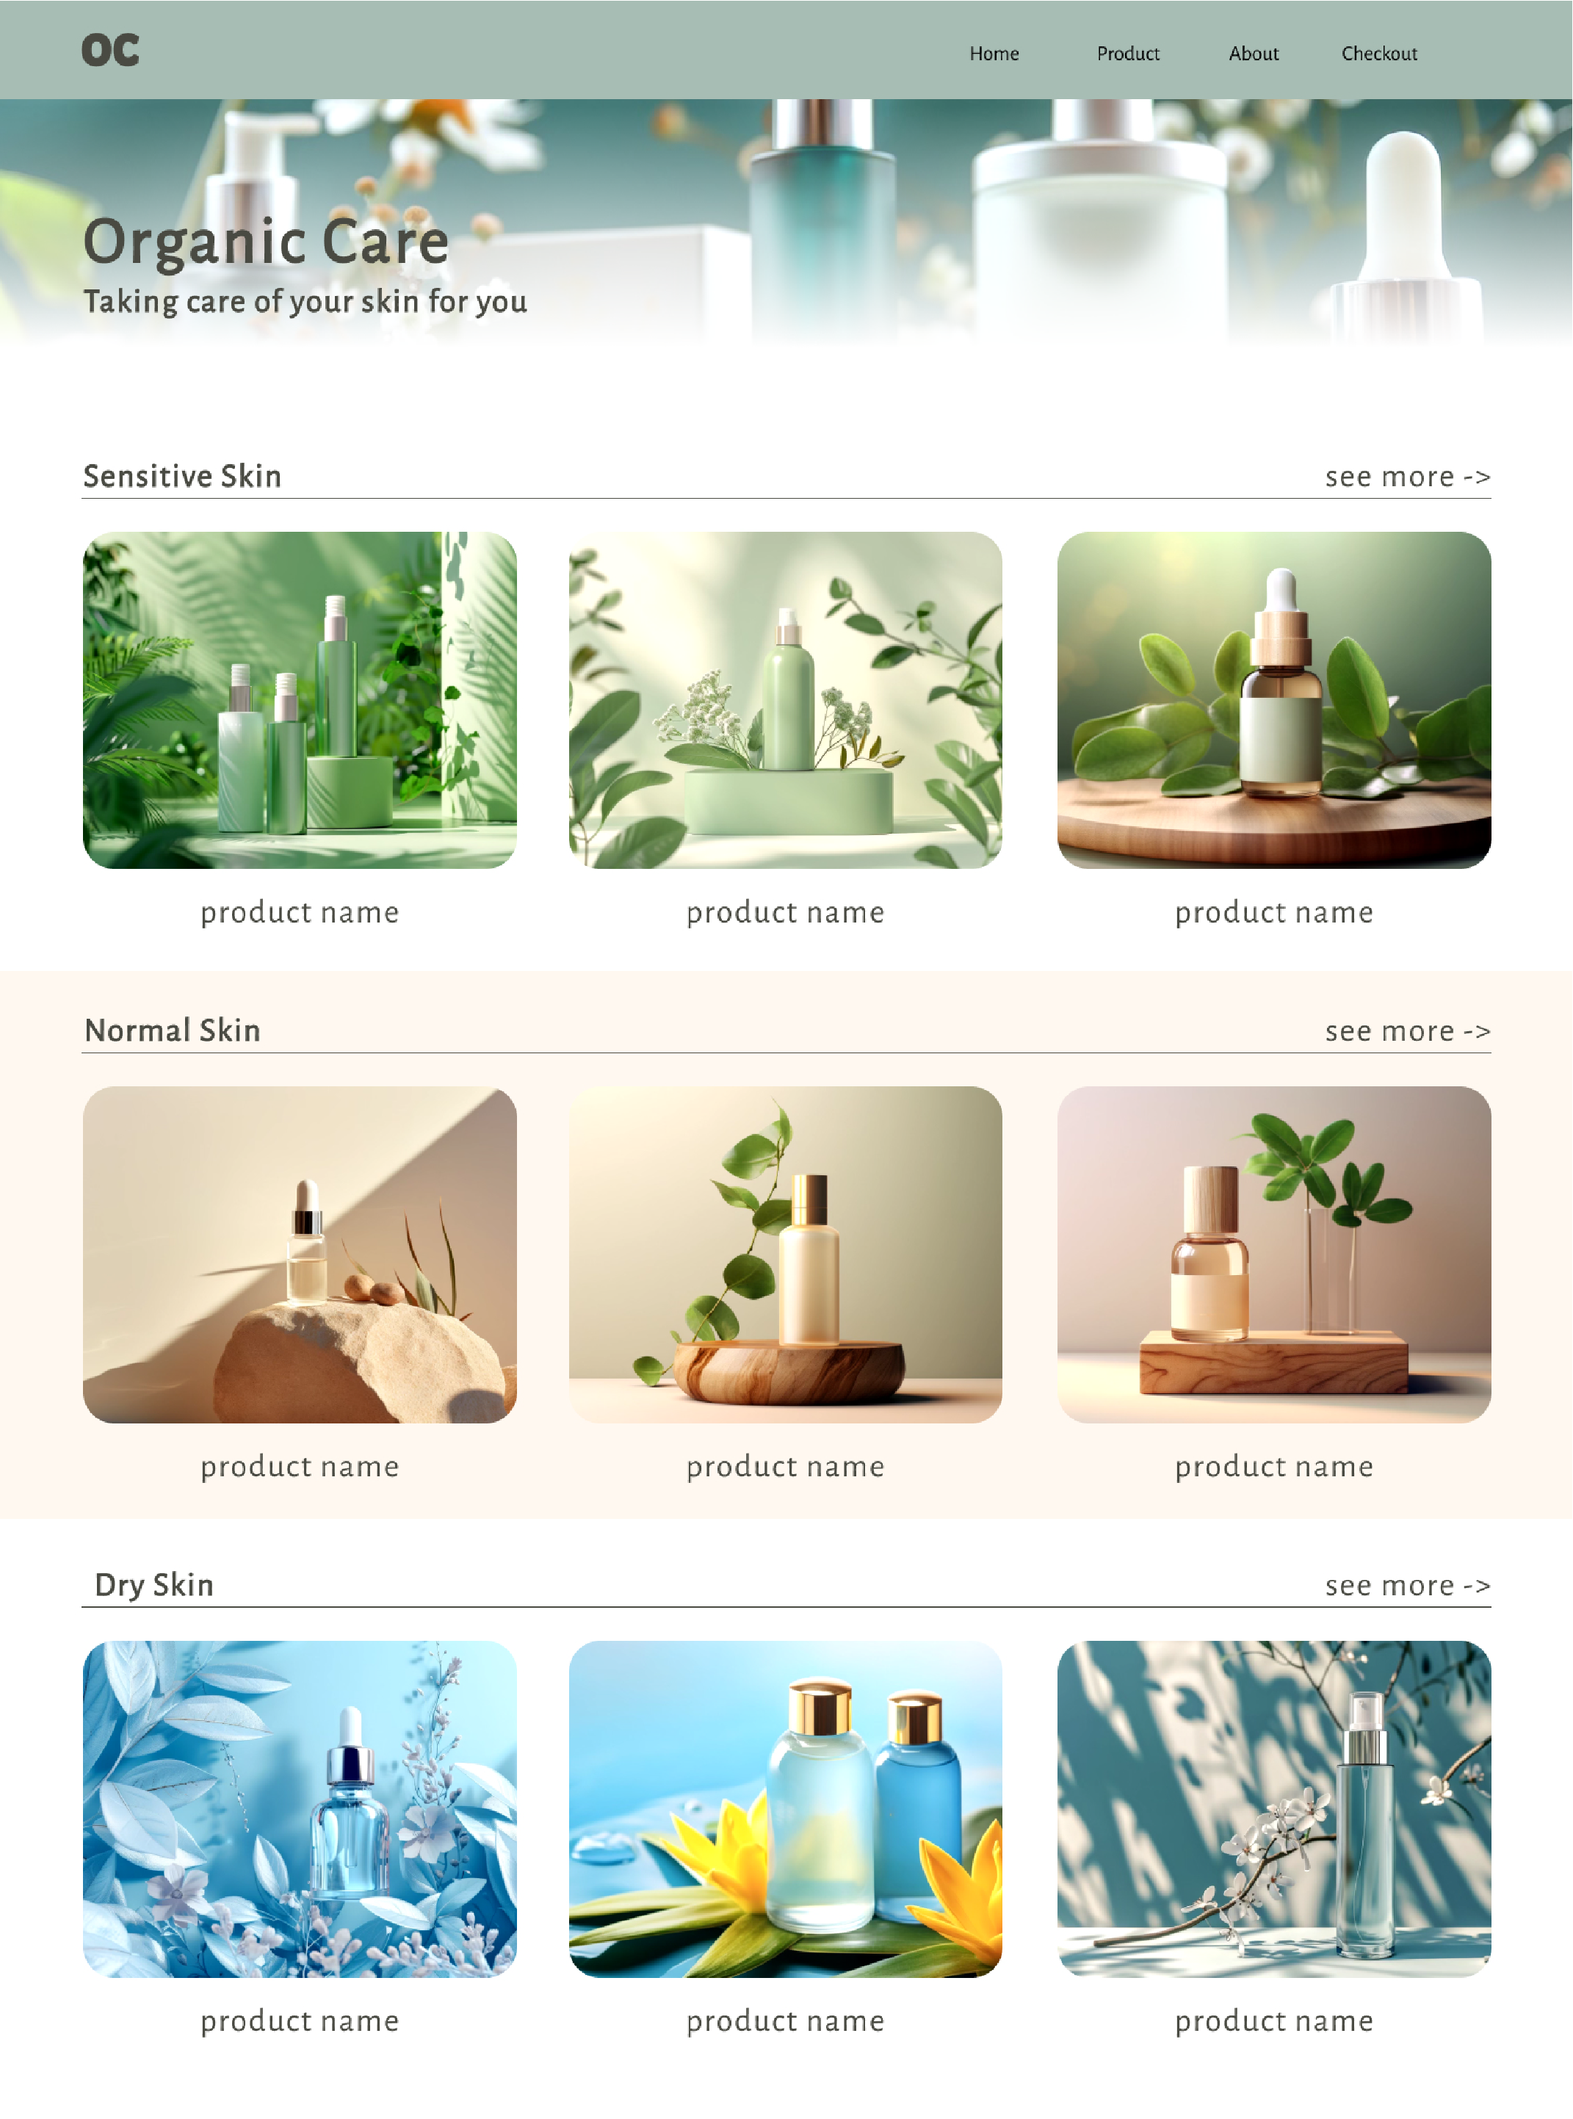
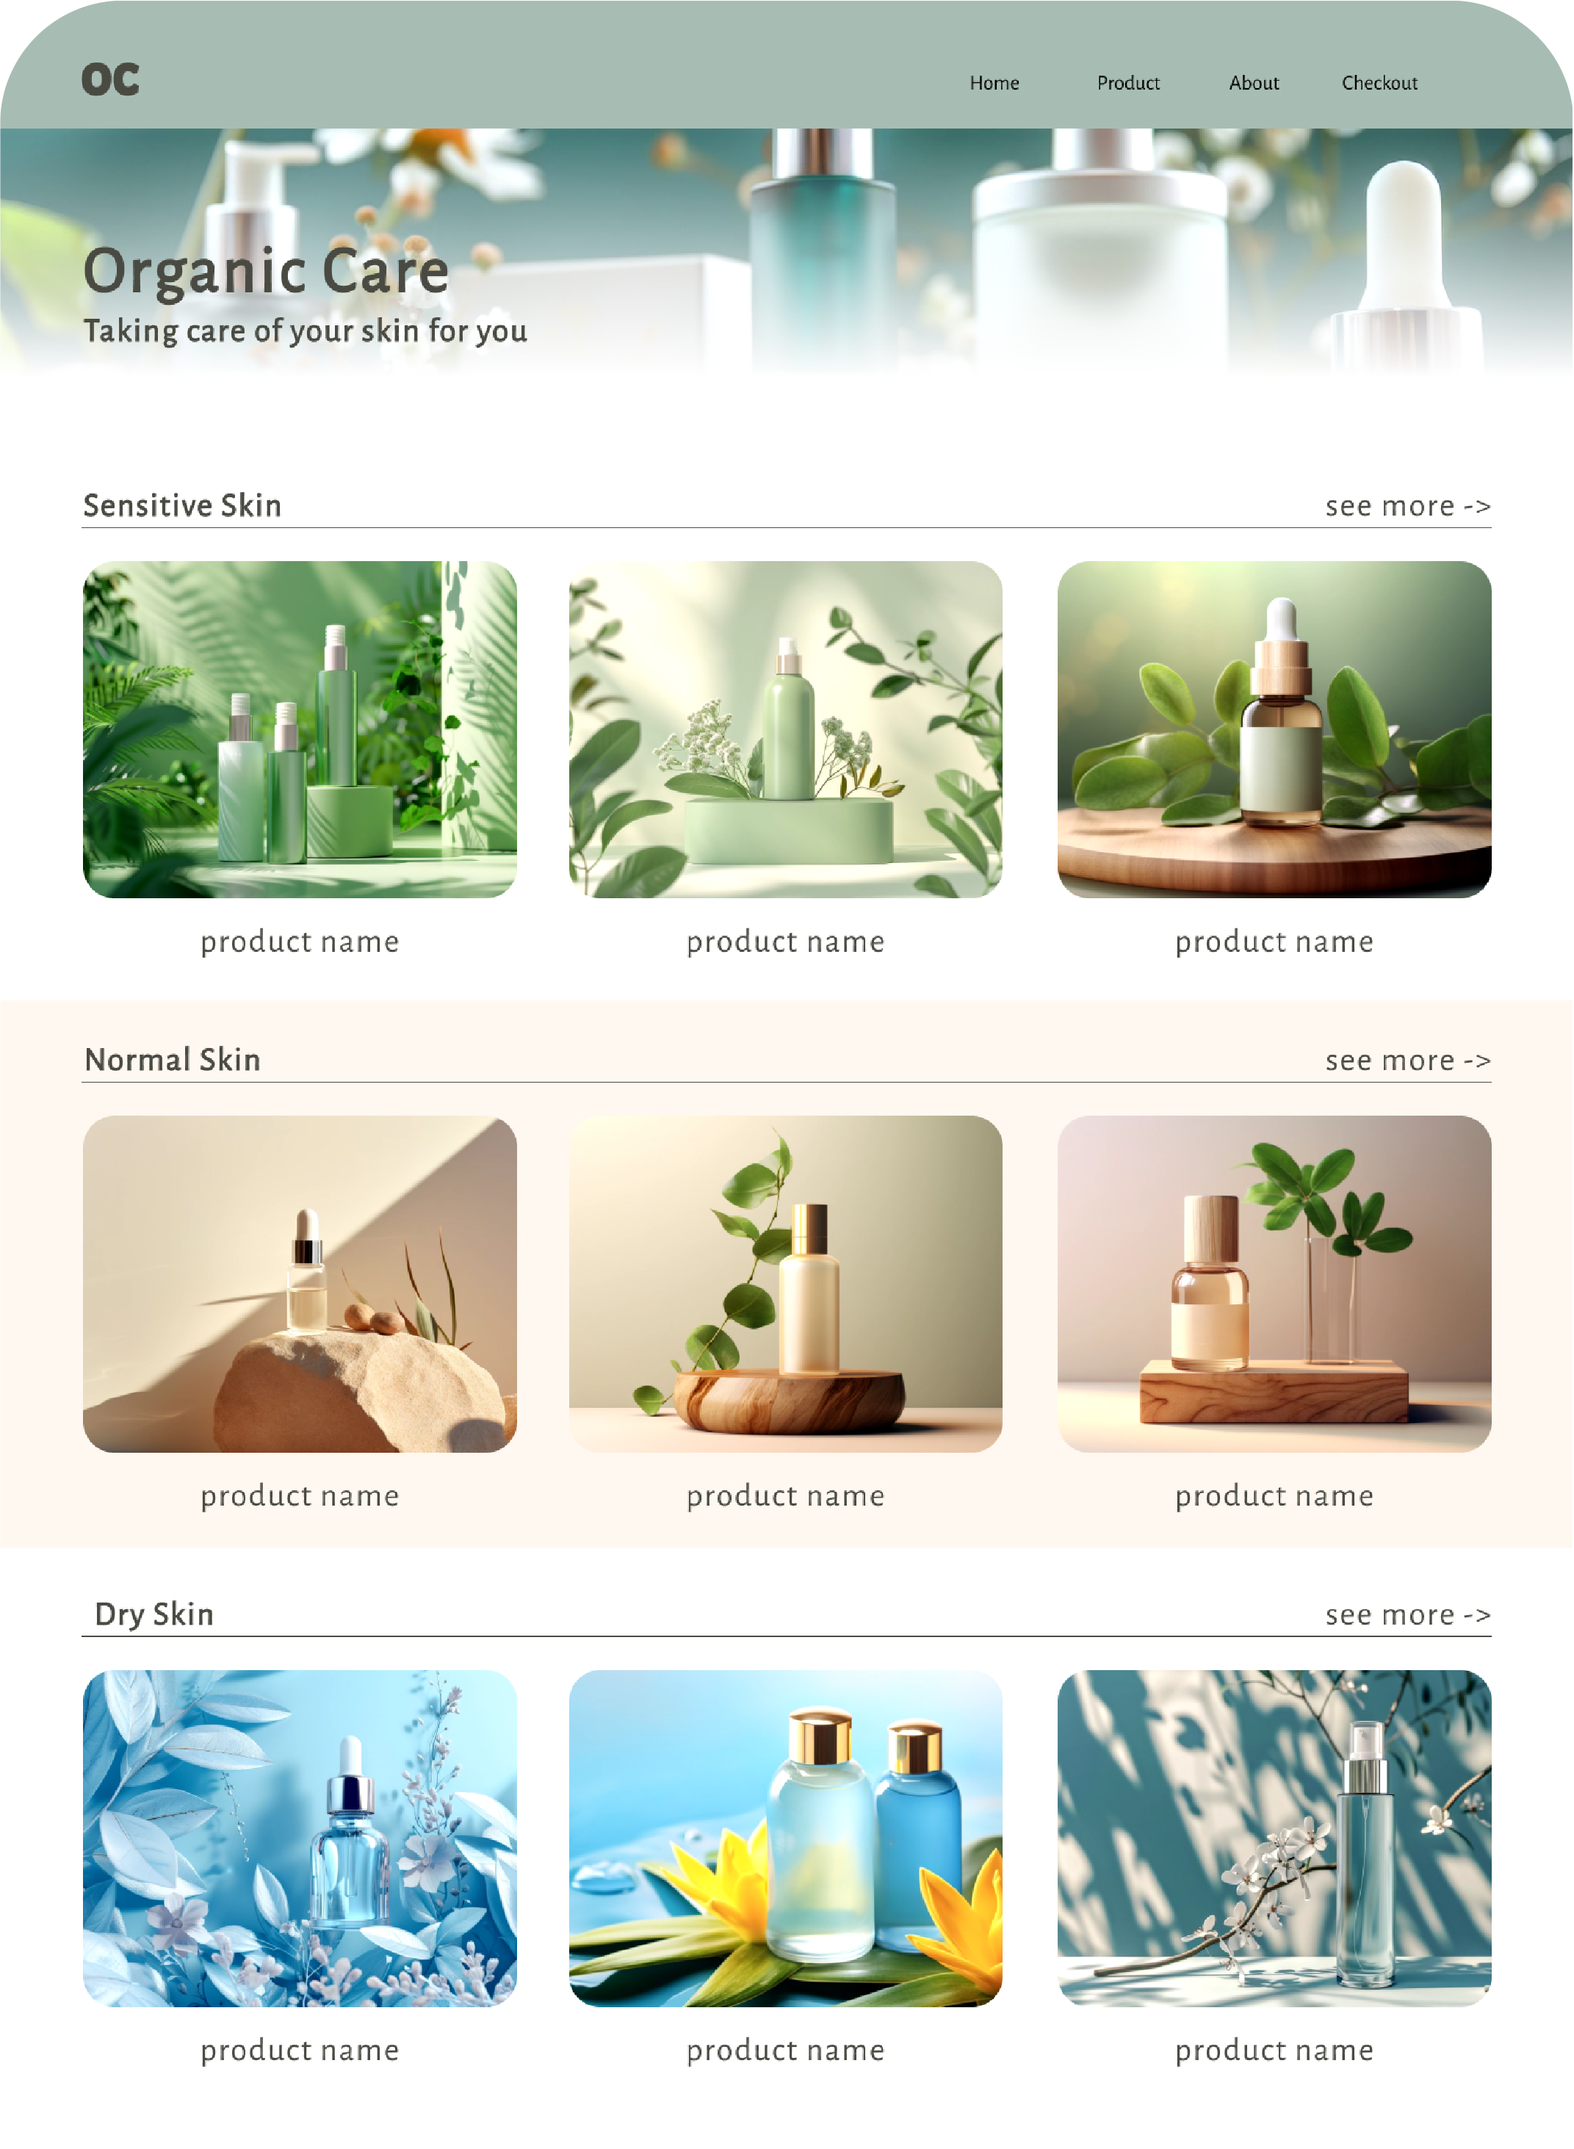
about content update

diff --git a/about.html b/about.html
@@ -57,8 +57,9 @@
     <section class="intro">
         <div class="about-content">
             <h3 class="limelight-regular">about me</h3>
-            <p>As a empathetic and creative individual committed to Human-Centered design, I excel in observing user
-                needs and crafting designs that resonate with the human mind.</p>
+            <p>Front-End Developer and UI/UX Designer with a background in industrial design and web content management.
+                Skilled in HTML, CSS, JavaScript, React, and UI design, with experience in website management and
+                product development. Passionate about creating user-friendly digital experiences.</p>
         </div>
         <div class="profile-picture"><img src="./image/profile-picture.jpg" alt=""></div>
     </section>
@@ -105,49 +106,50 @@
         <h1 class="limelight-regular">Educaiton</h1>
         <div class="background-holder" data-aos="fade-left" data-aos-duration="1000">
             <div class="time-line">
-                <p>2024 - currently studying</p>
-                <p class="vertical-line"></p>
+                <p>Expected 2025</p>
+                <!--<p class="vertical-line"></p>-->
             </div>
             <div class="bg-content" data-aos="fade-left" data-aos-duration="1000">
                 <p>2024 - currently studying</p>
-                <h3>Web Development-Front end design</h3>
-                <h5>George Brown College</h5>
+                <h3>George Brown College</h3>
+                <h5>Postgraduate Certificate in Web Development-Front end design</h5>
+                <h5>Focus Areas: Interface Design, UI Design, Front-End Development, Project Management</h5>
             </div>
             <div class="time-line" data-aos="fade-left" data-aos-duration="1000">
                 <p>2018 - 2022</p>
-                <p class="vertical-line"></p>
+                <!--<p class="vertical-line"></p>-->
             </div>
             <div class="bg-content" data-aos="fade-left" data-aos-duration="1000">
                 <p>2018 - 2022</p>
-                <h3>B.A. in Industrial and Commercial Design</h3>
-                <h5>Asia Eastern University of Science and Technolog</h5>
+                <h3>Asia Eastern University of Science and Technolog</h3>
+                <h5>B.A. in Industrial and Commercial Design</h5>
+                <h5>Focus Areas: Product Design, 3D Modeling, UI/UX Design, Mechanical Drafting</h5>
             </div>
         </div>
         <h1 class="limelight-regular">Work Experence</h1>
         <div class="background-holder">
             <div class="time-line" data-aos="fade-left" data-aos-duration="1000">
                 <p>2022 - 2023</p>
-                <p class="vertical-line"></p>
+                <!--<p class="vertical-line"></p>-->
             </div>
             <div class="bg-content" data-aos="fade-left" data-aos-duration="1000">
                 <p>2022 - 2023</p>
                 <h3>Industrial Design EngineeringIndustrial Design Engineering</h3>
                 <h5>Create Electronic Optical Co., Ltd, NEW TAIPEI, TAIWAN</h5>
                 <ul>
-                    <li>Spearheaded the motorcycle dash-cam products project through to the engineering verification
-                        test phase.</li>
-                    <li>Represented the company in the IF Award 2023, and advanced to the finals in the preliminary
-                        rounds.</li>
-                    <li>Executed Ul design for dash-cams, collaborating closely with software engineers to develop a
-                        functional prototype.</li>
-                    <li>Held the role of the official website editor, overseeing the front-end management.</li>
+                    <li>Conducted market research to identify trends, leading to the initiation of a motorcycle dash-cam
+                        project.</li>
+                    <li>Designed UI and icons for product models, improving user experience and branding.</li>
+                    <li>Developed a product concept selected as the company’s sole entry for the iF Design Award,
+                        advancing to the Berlin finals.</li>
+                    <li>Edited and updated website content, ensuring accurate and engaging user experiences.</li>
                 </ul>
             </div>
         </div>
         <div class="background-holder">
             <div class="time-line" data-aos="fade-left" data-aos-duration="1000">
                 <p>JUL-AUG 2023</p>
-                <p class="vertical-line"></p>
+                <!--<p class="vertical-line"></p>-->
             </div>
             <div class="bg-content" data-aos="fade-left" data-aos-duration="1000">
                 <p>JUL-AUG 2023</p>
@@ -156,12 +158,48 @@
                 <ul>
                     <li>Assistant of Taiwan Railway Administration (TRA) Train
                         Dispatching Radio Syst.</li>
-                    <li>Lorem ipsum dolor sit amet consectetur adipisicing elit.</li>
-                    <li>Lorem ipsum dolor sit amet consectetur adipisicing elit.</li>
                 </ul>
             </div>
         </div>
-
+        <h1 class="limelight-regular">Activitis & Leadership</h1>
+        <div class="background-holder">
+            <div class="time-line" data-aos="fade-left" data-aos-duration="1000">
+                <p>JUL 2021 - May 2022</p>
+                <!--<p class="vertical-line"></p>-->
+            </div>
+            <div class="bg-content" data-aos="fade-left" data-aos-duration="1000">
+                <p>JUL 2021 - May 2022</p>
+                <h3>Public Relations Director, 2022 Design Exhibition Committee</h3>
+                <h5>Asia Eastern University of Science and Technology, Taiwan</h5>
+                <ul>
+                    <li>Secured six sponsorship deals by negotiating with industry partners, ensuring financial and
+                        resource support for the event.</li>
+                    <li>Coordinated cross-functional communication between sponsors, faculty, and the exhibition team,
+                        streamlining event logistics.</li>
+                    <li>Organized and led team meetings, assisting team leaders in task allocation to enhance
+                        productivity and collaboration.</li>
+                </ul>
+            </div>
+        </div>
+        <div class="background-holder">
+            <div class="time-line" data-aos="fade-left" data-aos-duration="1000">
+                <p>JUL 2019</p>
+                <!--<p class="vertical-line"></p>-->
+            </div>
+            <div class="bg-content" data-aos="fade-left" data-aos-duration="1000">
+                <p>JUL 2021 - May 2022</p>
+                <h3>Volunteer Arts Lecturer</h3>
+                <h5>Shang-Hu Elementary School, Taoyuan, Taiwan</h5>
+                <ul>
+                    <li>Developed engaging art lessons that encouraged creative thinking in children, fostering their
+                        artistic expression.</li>
+                    <li>Taught color theory and blending techniques, improving students' understanding of visual
+                        aesthetics.</li>
+                    <li> Led sustainability workshops, guiding students in crafting eco-friendly toys using recycled
+                        materials.</li>
+                </ul>
+            </div>
+        </div>
     </section>
     <script>
         AOS.init();

diff --git a/project.html b/project.html
@@ -72,26 +72,7 @@
                         style="font-size:24px"></i></a>
             </div>
         </div>
-        
         <div class="col-container-2">
-            <div class="content-block" data-aos="fade-right" data-aos-duration="1000">
-                <h3>Charlotte Bakery</h3>
-                <p>Practice - Responsive Web Design
-                <p>
-                <p>2023</p>
-                <div class="empty-block"></div>
-                <a href=""><i class="fa fa-folder-open" style="font-size:24px"></i></a>
-                <a href="https://github.com/hunlin99/charlotte_bakery"><i class="fa fa-github"
-                        style="font-size:24px"></i></a>
-                <a href="https://hunlin99.github.io/charlotte_bakery/charlotte_bakery/"><i class="fa fa-link"
-                        style="font-size:24px"></i></a>
-            </div>
-            <div class="img-block" data-aos="fade-left" data-aos-duration="1000"><img src="./image/charlotte_bakery.jpg"
-                    alt=""></div>
-        </div>
-        <div class="col-container-1">
-            <div class="img-block" data-aos="fade-right" data-aos-duration="1000"><img src="./image/organic-care1.jpg"
-                    alt=""></div>
             <div class="content-block" data-aos="fade-left" data-aos-duration="1000">
                 <h3 class="limelight-regular">Organic Care</h3>
                 <p>Practice - Responsive Web Design</p>
@@ -103,7 +84,26 @@
                 <a href="https://hunlin99.github.io/15081-assignment1/"><i class="fa fa-link"
                         style="font-size:24px"></i></a>
             </div>
+            <div class="img-block" data-aos="fade-right" data-aos-duration="1000"><img src="./image/organic-care1.jpg"
+                alt=""></div>
         </div>
+        <div class="col-container-1">
+            <div class="img-block" data-aos="fade-left" data-aos-duration="1000"><img src="./image/charlotte_bakery.jpg"
+                alt=""></div>
+            <div class="content-block" data-aos="fade-right" data-aos-duration="1000">
+                <h3>Charlotte Bakery</h3>
+                <p>Practice - Responsive Web Design
+                <p>
+                <p>2023</p>
+                <div class="empty-block"></div>
+                <a href="https://www.behance.net/gallery/187550535/Charlotte-Bakery-Responsive-Web-Design"><i class="fa fa-behance" style="font-size:24px"></i></a>
+                <a href="https://github.com/hunlin99/charlotte_bakery"><i class="fa fa-github"
+                        style="font-size:24px"></i></a>
+                <a href="https://hunlin99.github.io/charlotte_bakery/charlotte_bakery/"><i class="fa fa-link"
+                        style="font-size:24px"></i></a>
+            </div>
+        </div>
+        
     </section>
     <section class="UID">
         <h1 class="limelight-regular">UI Design</h1>
@@ -130,7 +130,7 @@
                 <p>Dash Cam UI Design</p>
                 <p>2024</p>
                 <div class="empty-block"></div>
-                <a href=""><i class="fa fa-behance" style="font-size:24px"></i></a>
+                <a href="https://www.behance.net/gallery/187560811/Icon-design-of-dash-cam"><i class="fa fa-behance" style="font-size:24px"></i></a>
             </div>
         </div>
     </section>

diff --git a/cuisines-around-us/cuisines-around-us.html b/cuisines-around-us/cuisines-around-us.html
@@ -3,7 +3,7 @@
 <meta charset="UTF-8">
 <meta name="viewport" content="width=device-width, initial-scale=1.0">
 <!--CSS file-->
-<link rel="stylesheet" href="./organic-care.css">
+<link rel="stylesheet" href="../style.css">
 <link rel="stylesheet" href="../cuisines-around-us/cuisines-around-us.css">
 <!--Google icon-->
 <link rel="stylesheet" href="https://fonts.googleapis.com/icon?family=Material+Icons">
@@ -20,7 +20,7 @@
 
 <body class="body">
     <header class="back-btn">
-        <a href="/project.html" class="limelight-regular"><i class="fa fa-chevron-left" style="font-size:28px"></i>Back
+        <a href="../project.html" class="limelight-regular"><i class="fa fa-chevron-left" style="font-size:28px"></i>Back
             to Projects</a>
     </header>
     <div class="back-color"></div>
@@ -33,8 +33,8 @@
                 </div>
                 <img src="./mockup.png" alt="">
             </div>
-            <img class="screenshot-1" src="./hi-fi-1.jpg" alt="" data-aos="fade-down" data-aos-duration="3000">
-            <img class="screenshot-2" src="./hi-fi-2.jpg" alt="" data-aos="fade-up" data-aos-duration="3000">
+            <img class="screenshot-1" src="./hi-fi-1.png" alt="" data-aos="fade-down" data-aos-duration="3000">
+            <img class="screenshot-2" src="./hi-fi-2.png" alt="" data-aos="fade-up" data-aos-duration="3000">
         </div>
     </section>
     <section class="description">

diff --git a/health-pocked/health-pocked.html b/health-pocked/health-pocked.html
@@ -23,7 +23,7 @@
 
 <body class="body">
     <header class="back-btn">
-        <a href="/project.html" class="limelight-regular"><i class="fa fa-chevron-left" style="font-size:28px"></i>Back to Projects</a>
+        <a href="../project.html" class="limelight-regular"><i class="fa fa-chevron-left" style="font-size:28px"></i>Back to Projects</a>
     </header>
     <section class="cover">
         <div class="cover-container" >

diff --git a/style.css b/style.css
@@ -134,6 +134,19 @@ nav a :hover {
   border-radius: 50%;
 }
 
+/*detail page header*/
+.back-btn{
+  position: absolute;
+  top: 0;
+  height: auto;
+}
+.back-btn a{
+  padding: 1em;
+  display: flex;
+  align-items: center;
+  gap: 1em;
+}
+
 /* mobile menu */
 #menuBtn {
   display: none;

diff --git a/cuisines-around-us/cuisines-around-us.css b/cuisines-around-us/cuisines-around-us.css
@@ -17,6 +17,7 @@
 .body{
     width: 100%;
     color: #344D66;
+    padding-top: 2vh; /*To cover padding-top: 10vh in style.css*/
 }
 
 #nav{
@@ -43,7 +44,6 @@
     justify-content: space-between;
     margin: auto;
     padding-bottom: 5%;
-    padding-top: 5%;
 }
 
 .cover-container{

diff --git a/health-pocked/health-pocked.css b/health-pocked/health-pocked.css
@@ -20,17 +20,7 @@
 }
 
 
-/*header*/
-.back-btn{
-    position: absolute;
-    top: 0;
-}
-.back-btn a{
-    padding: 1em;
-    display: flex;
-    align-items: center;
-    gap: 1em;
-}
+
 
 /*Text*/
 .cover-content h1 {

diff --git a/about.css b/about.css
@@ -49,6 +49,10 @@ body {
     border-radius: 50%;
 }
 
+.about-content{
+    line-height: 2em;
+}
+
 .skill-block-holder {
     display: grid;
     grid-template-columns: 1fr 1fr 1fr;

diff --git a/organic-care/organic-care.css b/organic-care/organic-care.css
@@ -16,6 +16,8 @@
 }
 .body{
     width: 100%;
+    color: #344D66;
+    padding-top: 2vh; /*To cover padding-top: 10vh in style.css*/
 }
 
 #nav{
